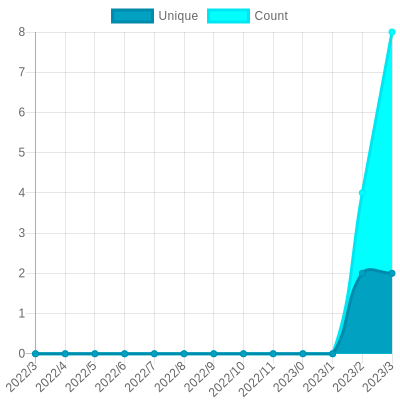
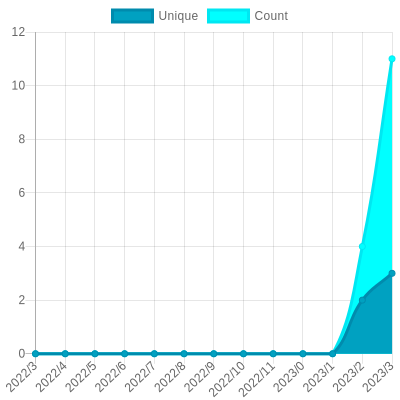
Update views

diff --git a/readme/337533910/year.md b/readme/337533910/year.md
@@ -23,10 +23,10 @@
 			<code>2022/4/1</code>
 		</td>
 		<td>
-			<code>2</code>
+			<code>3</code>
 		</td>
 		<td>
-			<code>8</code>
+			<code>11</code>
 		</td>
 	</tr>
 	<tr>
@@ -164,7 +164,7 @@
 </table>
 
 </details>
-<small><i>Last updated on 2022/4/20 12:16 PM UTC</i></small>
+<small><i>Last updated on 2022/4/20 6:13 PM UTC</i></small>
 
 ## ✂Copy and 📋 Paste
 ### SVG Badge

diff --git a/README.md b/README.md
@@ -885,7 +885,7 @@ The project created and maintained by [gayanvoice](https://github.com/gayanvoice
 	</tr>
 </table>
 
-<small><i>Last updated on 2022/4/20 12:20 PM UTC</i></small>
+<small><i>Last updated on 2022/4/20 6:18 PM UTC</i></small>
 
 ## ✂Copy and 📋 Paste
 ### Total Views Badge

diff --git a/readme/252348187/year.md b/readme/252348187/year.md
@@ -164,7 +164,7 @@
 </table>
 
 </details>
-<small><i>Last updated on 2022/4/20 12:19 PM UTC</i></small>
+<small><i>Last updated on 2022/4/20 6:16 PM UTC</i></small>
 
 ## ✂Copy and 📋 Paste
 ### SVG Badge

diff --git a/readme/256079566/year.md b/readme/256079566/year.md
@@ -164,7 +164,7 @@
 </table>
 
 </details>
-<small><i>Last updated on 2022/4/20 12:19 PM UTC</i></small>
+<small><i>Last updated on 2022/4/20 6:17 PM UTC</i></small>
 
 ## ✂Copy and 📋 Paste
 ### SVG Badge

diff --git a/readme/262135613/year.md b/readme/262135613/year.md
@@ -164,7 +164,7 @@
 </table>
 
 </details>
-<small><i>Last updated on 2022/4/20 12:18 PM UTC</i></small>
+<small><i>Last updated on 2022/4/20 6:15 PM UTC</i></small>
 
 ## ✂Copy and 📋 Paste
 ### SVG Badge

diff --git a/readme/281743425/year.md b/readme/281743425/year.md
@@ -164,7 +164,7 @@
 </table>
 
 </details>
-<small><i>Last updated on 2022/4/20 12:17 PM UTC</i></small>
+<small><i>Last updated on 2022/4/20 6:14 PM UTC</i></small>
 
 ## ✂Copy and 📋 Paste
 ### SVG Badge

diff --git a/readme/300094398/year.md b/readme/300094398/year.md
@@ -164,7 +164,7 @@
 </table>
 
 </details>
-<small><i>Last updated on 2022/4/20 12:19 PM UTC</i></small>
+<small><i>Last updated on 2022/4/20 6:17 PM UTC</i></small>
 
 ## ✂Copy and 📋 Paste
 ### SVG Badge

diff --git a/readme/302481454/year.md b/readme/302481454/year.md
@@ -164,7 +164,7 @@
 </table>
 
 </details>
-<small><i>Last updated on 2022/4/20 12:19 PM UTC</i></small>
+<small><i>Last updated on 2022/4/20 6:17 PM UTC</i></small>
 
 ## ✂Copy and 📋 Paste
 ### SVG Badge

diff --git a/readme/308116415/year.md b/readme/308116415/year.md
@@ -164,7 +164,7 @@
 </table>
 
 </details>
-<small><i>Last updated on 2022/4/20 12:20 PM UTC</i></small>
+<small><i>Last updated on 2022/4/20 6:18 PM UTC</i></small>
 
 ## ✂Copy and 📋 Paste
 ### SVG Badge

diff --git a/readme/308687595/year.md b/readme/308687595/year.md
@@ -164,7 +164,7 @@
 </table>
 
 </details>
-<small><i>Last updated on 2022/4/20 12:16 PM UTC</i></small>
+<small><i>Last updated on 2022/4/20 6:13 PM UTC</i></small>
 
 ## ✂Copy and 📋 Paste
 ### SVG Badge

diff --git a/readme/309781038/year.md b/readme/309781038/year.md
@@ -164,7 +164,7 @@
 </table>
 
 </details>
-<small><i>Last updated on 2022/4/20 12:19 PM UTC</i></small>
+<small><i>Last updated on 2022/4/20 6:17 PM UTC</i></small>
 
 ## ✂Copy and 📋 Paste
 ### SVG Badge

diff --git a/readme/315388139/year.md b/readme/315388139/year.md
@@ -164,7 +164,7 @@
 </table>
 
 </details>
-<small><i>Last updated on 2022/4/20 12:16 PM UTC</i></small>
+<small><i>Last updated on 2022/4/20 6:13 PM UTC</i></small>
 
 ## ✂Copy and 📋 Paste
 ### SVG Badge
